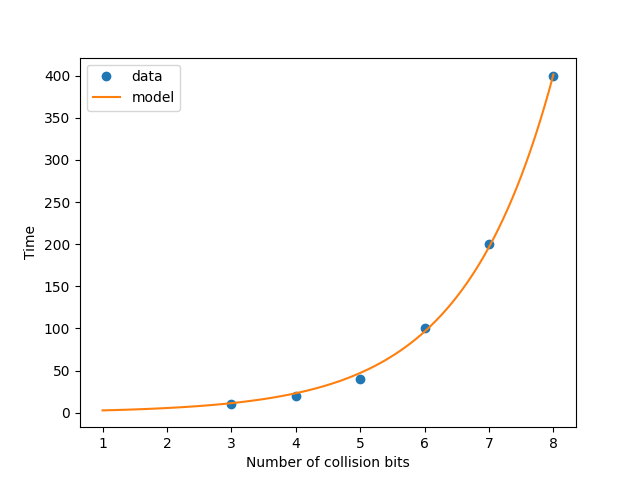
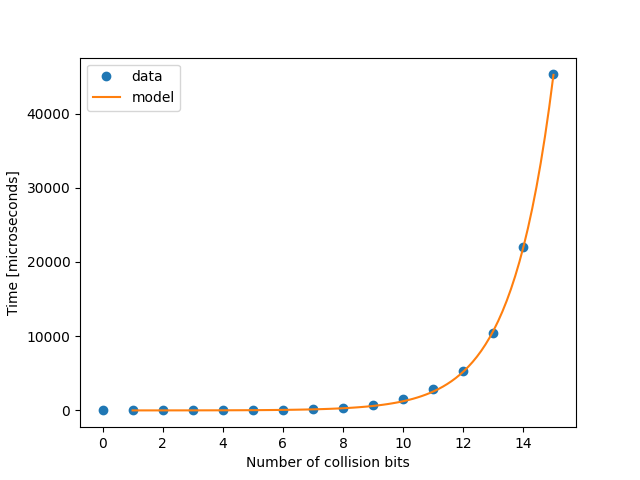
Added odhad

diff --git a/sha_512/graph.py b/sha_512/graph.py
@@ -1,11 +1,10 @@
 import numpy as np
 import matplotlib.pyplot as plt
 from scipy.optimize import curve_fit
-from PIL import Image
 
 # plotting the data
-collisions = np.array([3, 4, 5, 6, 7, 8])
-times =  np.array([10, 20, 40, 100, 200, 400])
+collisions = np.array([0, 1, 2, 3, 4, 5, 6, 7, 8, 9, 10, 11, 12, 13, 14, 15])
+times =  np.array([5, 6, 8, 16, 24, 48, 91, 168, 330, 759, 1580, 2939, 5322, 10399, 21953, 45278])
 plt.plot(collisions, times, 'o', label='data')  #o=circle
 
 # creating model
@@ -27,7 +26,7 @@ print("Full collision time: ", model(512, a, b))
 # show the plot
 plt.legend(loc="upper left")
 plt.xlabel("Number of collision bits")
-plt.ylabel("Time")
+plt.ylabel("Time [microseconds]")
 plt.show()
 
 

diff --git a/sha_512/benchmark.cpp b/sha_512/benchmark.cpp
@@ -189,7 +189,7 @@ int main(void)
 
     // testing
     const int max_bits = 15;
-    const int number_of_tests = 100;
+    const int number_of_tests = 400;
     for (int i = 0; i <= max_bits; i++)
     {
         unsigned int sum = 0;
